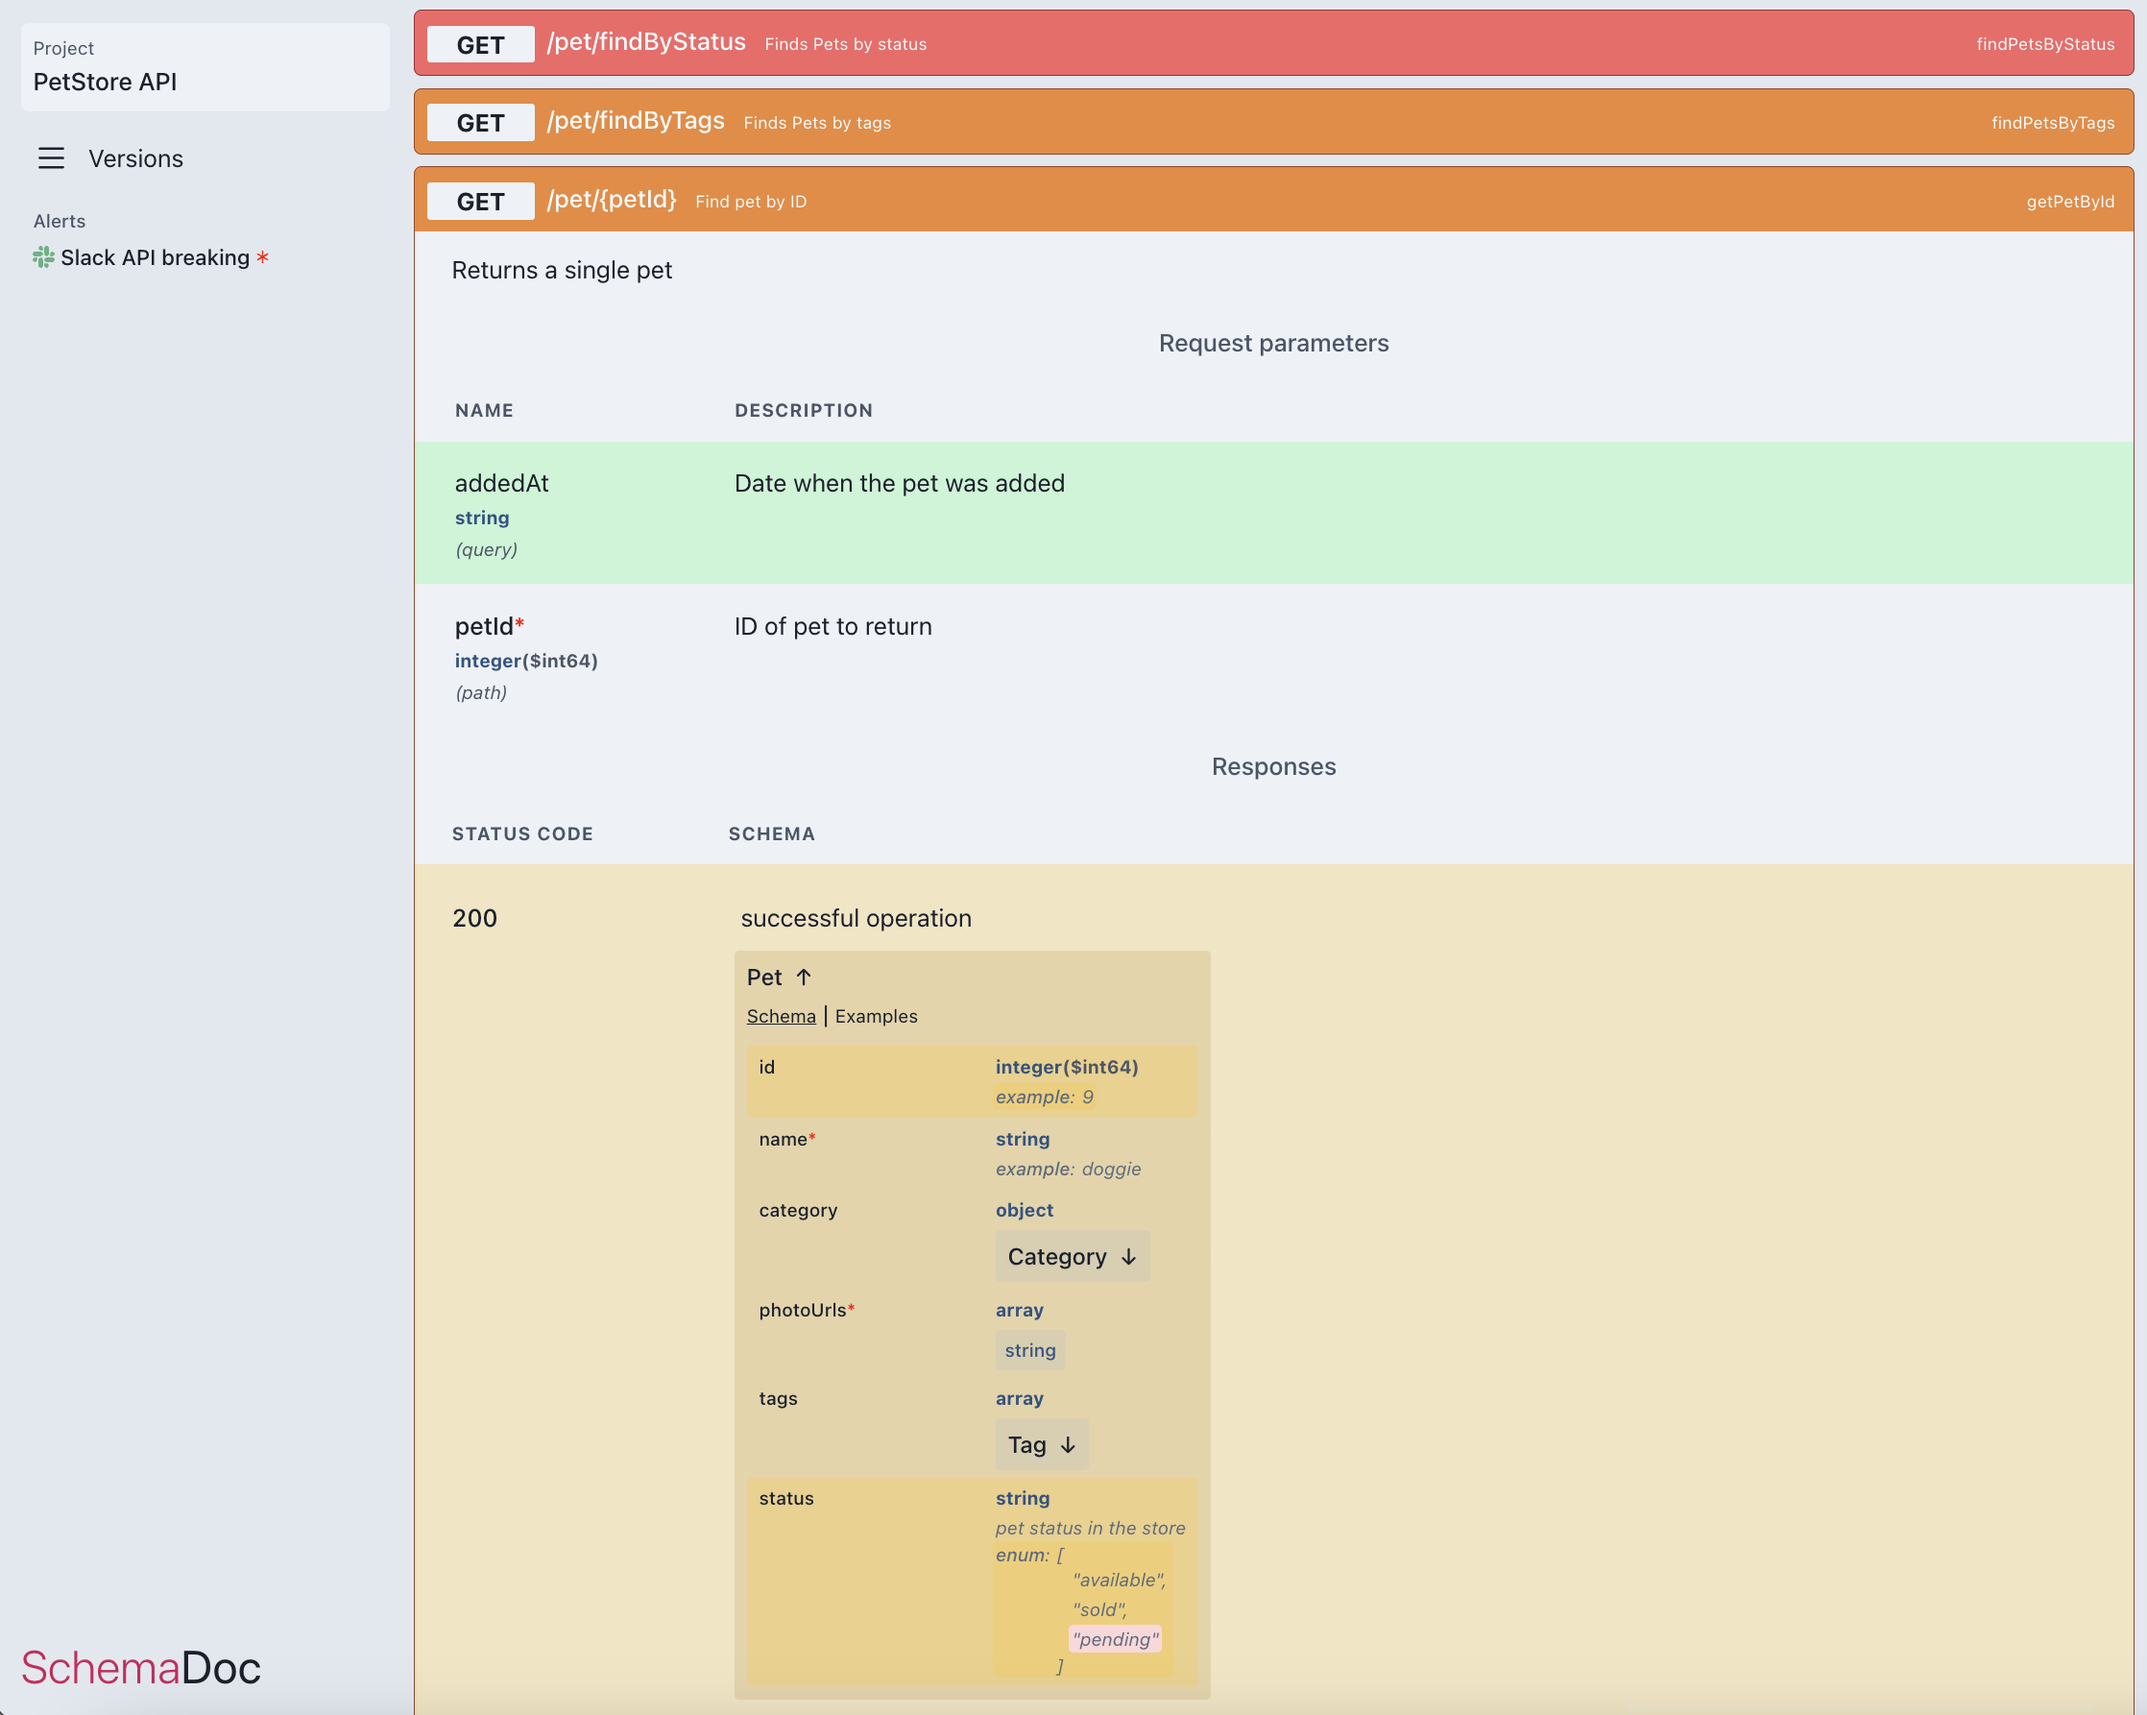
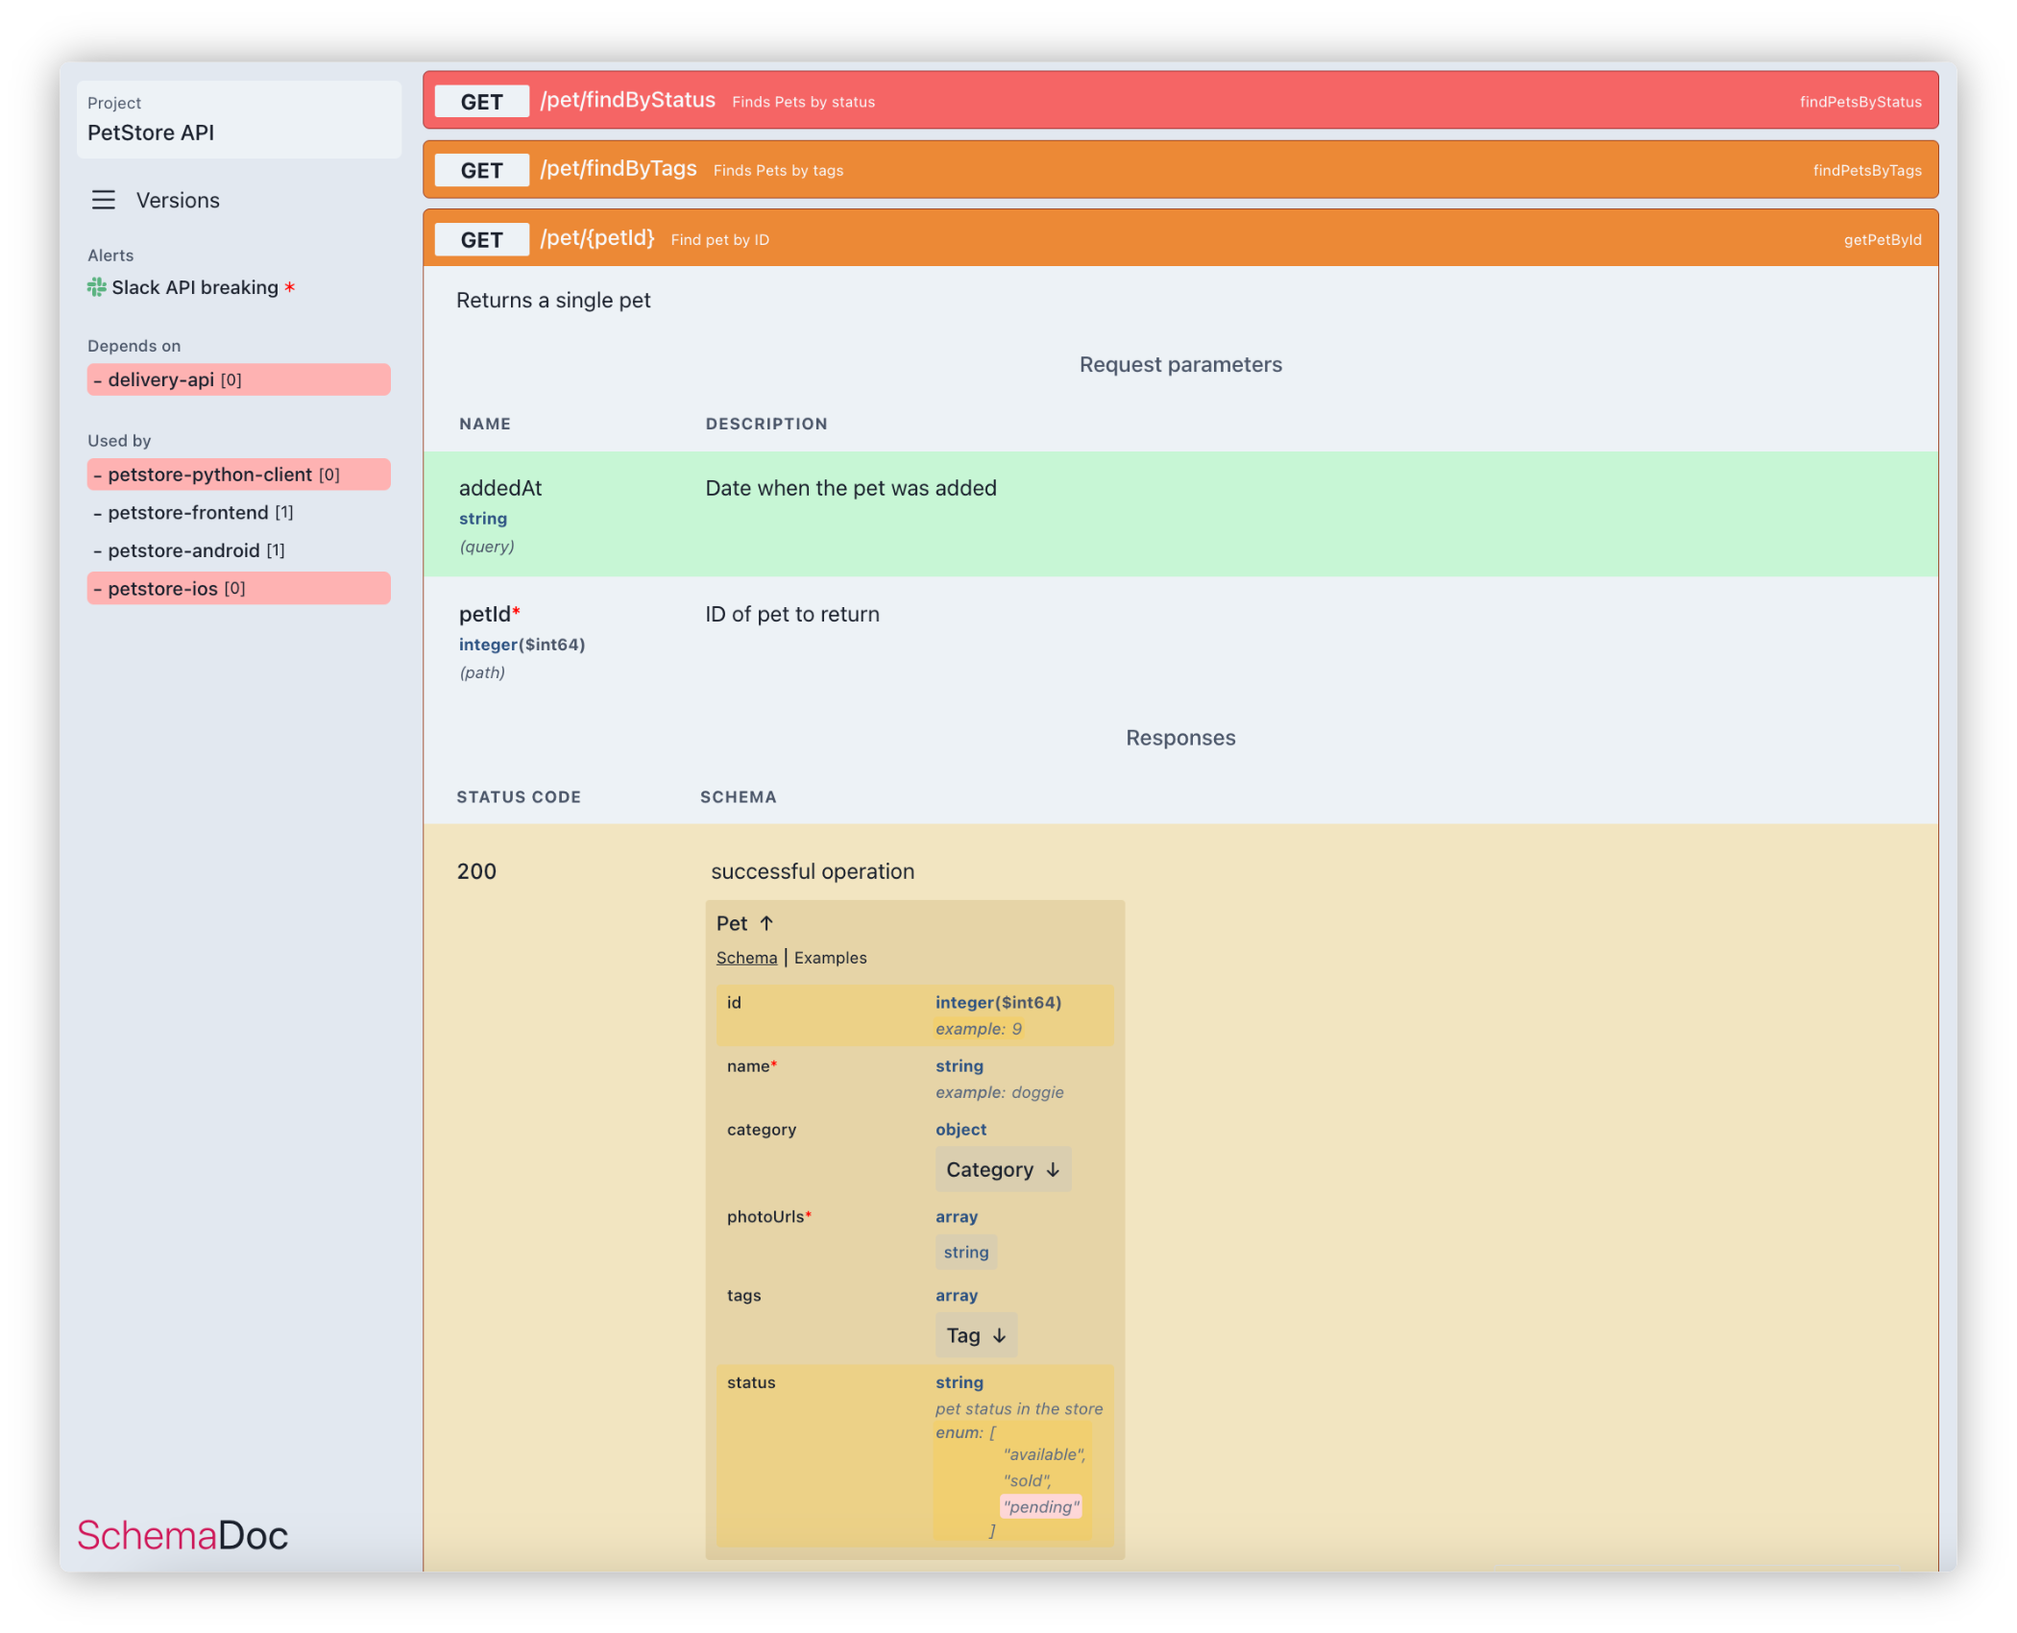
docs: update README.md

diff --git a/README.md b/README.md
@@ -1,7 +1,7 @@
 # SchemaDoc
 
-
 ## 🚧🚧🚧 WIP (work-in-progress) 🚧🚧🚧
+
 SchemaDoc is an open-source project that allows you to compare OpenAPI schemas and visualize the results in a
 Swagger-like manner. It provides a convenient way to track changes between different versions of OpenAPI schemas and
 identify breaking changes.
@@ -12,18 +12,23 @@ identify breaking changes.
 
 - **Project and Versions**: You can create projects and manage multiple versions of OpenAPI schemas within each project.
   This enables you to track changes over time and compare different versions easily.
-- **Data Sources**: SchemaDoc supports configuring data sources to pull OpenAPI schemas from. Currently, it only supports
+- **Data Sources**: SchemaDoc supports configuring data sources to pull OpenAPI schemas from. Currently, it only
+  supports
   basic URL GET requests. You can specify the URL from which the schema should be fetched.
 - **Scheduled Data Pulling**: SchemaDoc allows you to schedule the pulling of OpenAPI schemas from the configured data
   sources. By default, it pulls the data every 5 minutes, ensuring that you always have the most up-to-date information.
-- **Breaking Changes**: SchemaDoc calculates breaking changes between different versions of OpenAPI schemas. It helps you
+- **Breaking Changes**: SchemaDoc calculates breaking changes between different versions of OpenAPI schemas. It helps
+  you
   identify modifications that may cause compatibility issues with existing clients.
 - **Alerts**: You can configure alerts to receive notifications about schema changes. SchemaDoc supports sending summary
   alerts to Slack or Google Chat. There are two kinds of alerts available:
     - **all**: Send an alert for any change detected in the schema.
     - **breaking**: Send an alert only if there are breaking changes in the schema.
-- **File-based Storage**: SchemaDoc does not require a database. It stores all data in files, making it easy to set up and
+- **File-based Storage**: SchemaDoc does not require a database. It stores all data in files, making it easy to set up
+  and
   deploy.
+- **Dependencies**: SchemaDoc supports specifying dependencies between projects. This allows you to track how changes in
+  one project may impact the other.
 
 ## Configuration (schemadoc.yaml)
 
@@ -36,6 +41,7 @@ data:
   stripe:
     slug: stripe
     name: Strip API
+    kind: server
     description: empty
     alerts:
       - name: Slack breaking
@@ -49,6 +55,10 @@ data:
     data_source:
       name: Stripe Github raw
       source: !Url { url: https://raw.githubusercontent.com/stripe/openapi/master/openapi/spec3.json }
+
+    dependencies:
+      - project: petstore # Change me or remove
+        version: 0
 ```
 
 In this configuration file, you can define multiple projects under the data section. Each project has a unique slug,
@@ -57,6 +67,9 @@ information.
 
 The **data_source** section allows you to configure the data source from which the OpenAPI schema will be pulled.
 Currently, only basic HTTP GET requests are supported. You can provide the name and URL of the data source.
+
+There are two kinds of projects `server` and `client`, they differ only visually on UI. Client does not have
+versions and overview page shows the client dependencies.
 
 ## Getting Started
 
